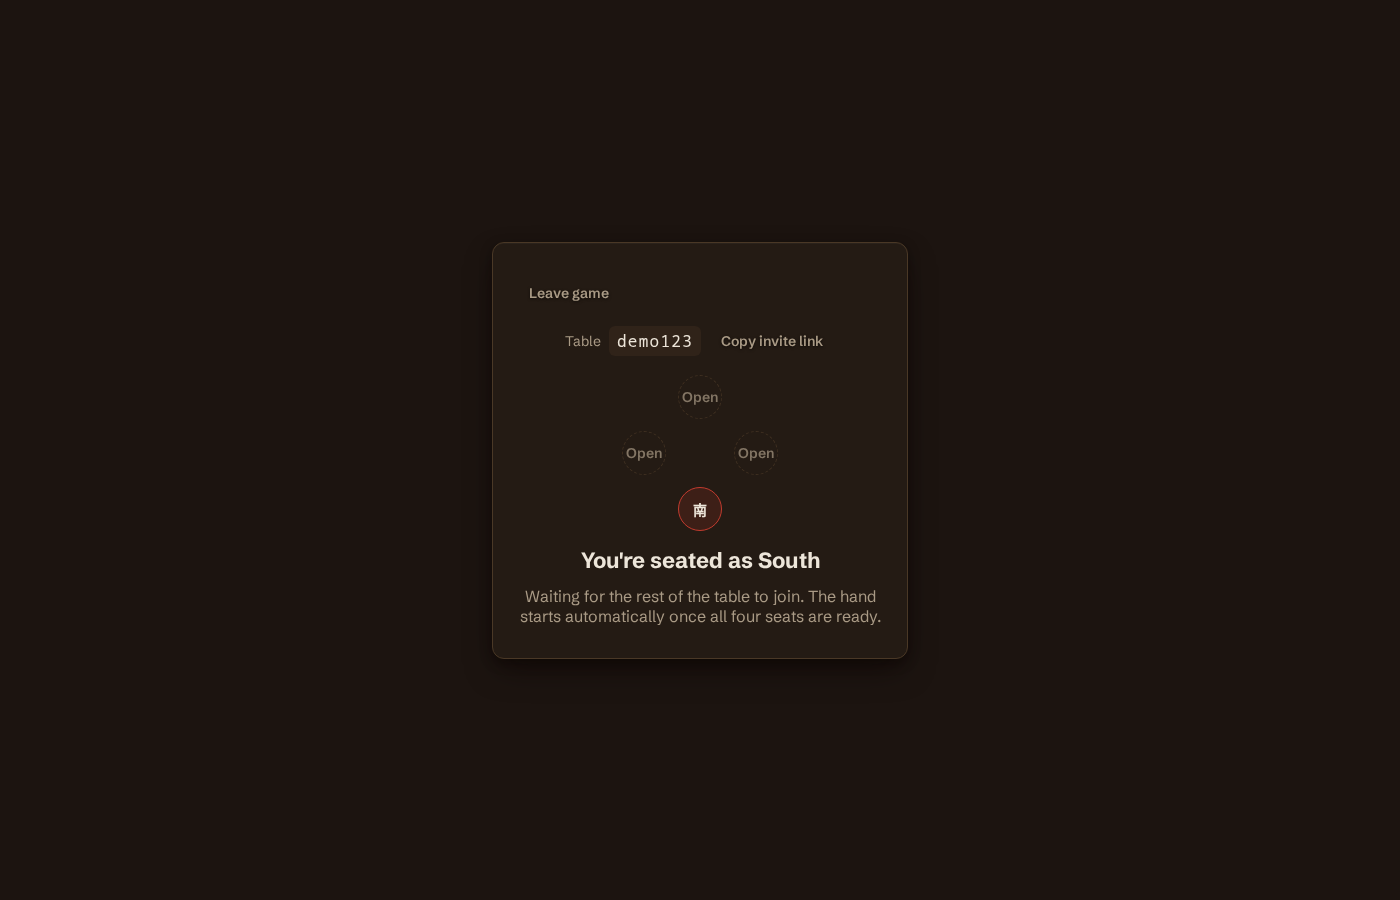
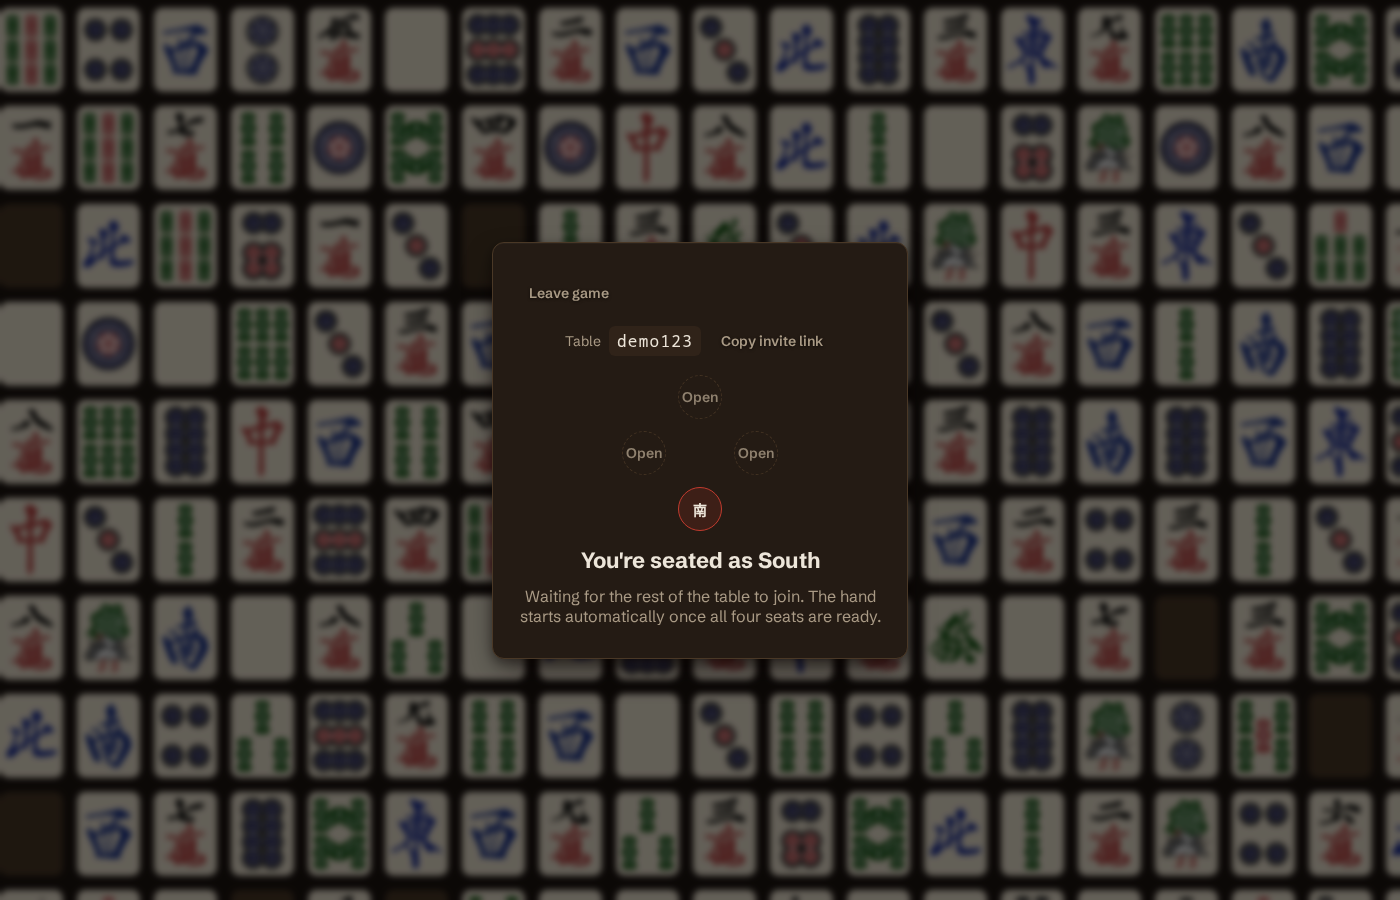
feat(web): share the lobby mural across tables and table pregame routes
Mounts TileMuralBackground once in the root layout instead of per-page,
so navigating between /, /tables, and /table/[id]'s pregame states
(connecting, seat picker, waiting-for-players) never tears down and
remounts the canvas -- that would restart its scroll position and
reshuffle its grid, reading as a jump rather than seamless navigation.

lib/ui/mural-visibility.svelte.ts holds one shared visibility flag the
always-mounted canvas reads; a page claims it via claimMuralVisible() on
mount and releases it on unmount. /table/[id] claims it conditionally
(pregame only) since the same route also renders the actual game table,
which never shows the mural, mock or live, spectator included.

Also removes the demo screenshot from README.md and the screenshot
pipeline's notable-pages list -- no longer a curated, distinct page
worth documenting there.

diff --git a/web/src/lib/ui/TileMuralBackground.svelte b/web/src/lib/ui/TileMuralBackground.svelte
@@ -52,6 +52,12 @@
 	// the art shrunk into a square, visibly less padding-accurate than the real TileFace.svelte.
 	const ART_ASPECT = 300 / 400;
 
+	// mounted once in the root layout for the whole app session (`lib/ui/mural-visibility.svelte.ts`)
+	// -- `visible` only toggles opacity, never unmounts the canvas, so route changes never restart
+	// the scroll position or reshuffle the grid. The draw loop keeps running while hidden (one
+	// cheap blit/frame) rather than pausing/resuming, so there's nothing to resync on show.
+	let { visible = true }: { visible?: boolean } = $props();
+
 	let canvasEl: HTMLCanvasElement | undefined = $state();
 
 	$effect(() => {
@@ -231,8 +237,9 @@
 	});
 </script>
 
-<canvas bind:this={canvasEl} class="mural" aria-hidden="true"></canvas>
-<div class="mural-scrim" aria-hidden="true"></div>
+<canvas bind:this={canvasEl} class="mural" class:mural--hidden={!visible} aria-hidden="true"
+></canvas>
+<div class="mural-scrim" class:mural--hidden={!visible} aria-hidden="true"></div>
 
 <style lang="scss">
 	.mural {
@@ -240,6 +247,7 @@
 		inset: 0;
 		z-index: var(--z-table);
 		pointer-events: none;
+		transition: opacity 220ms ease;
 	}
 
 	// sits in front of the canvas (later in DOM, same z-index) and blurs + darkens it, so the
@@ -253,5 +261,19 @@
 		backdrop-filter: blur(3px) brightness(0.55);
 		-webkit-backdrop-filter: blur(3px) brightness(0.55);
 		background: rgb(0 0 0 / 0.25);
+		transition: opacity 220ms ease;
+	}
+
+	// routes that don't want the mural (the live game table, profile, demo, ...) still have it
+	// mounted underneath -- see the module comment above for why -- just invisible.
+	.mural--hidden {
+		opacity: 0;
+	}
+
+	@media (prefers-reduced-motion: reduce) {
+		.mural,
+		.mural-scrim {
+			transition: none;
+		}
 	}
 </style>

diff --git a/web/src/lib/ui/mural-visibility.svelte.ts b/web/src/lib/ui/mural-visibility.svelte.ts
@@ -1,0 +1,24 @@
+// The mural background (`TileMuralBackground.svelte`) mounts once in the root layout and never
+// unmounts on client-side navigation -- otherwise its canvas would tear down and rebuild its
+// random grid, restarting the scroll animation, every time a route that wants it navigates to
+// another route that wants it (lobby -> tables -> table pregame). Pages that want it visible
+// toggle this shared flag on mount instead of rendering their own `<TileMuralBackground>`, so the
+// canvas itself is untouched -- only its opacity changes.
+class MuralVisibility {
+	visible = $state(false);
+}
+
+export const muralVisibility = new MuralVisibility();
+
+// call once from a page's `<script>` (component initialization, not inside a callback) to claim
+// mural visibility for as long as that page stays mounted, releasing it again on unmount. `wanted`
+// is a getter rather than a plain boolean so the claim can vary reactively while mounted --
+// `/table/[id]` wants the mural only during its pregame states, not once the game itself starts.
+export function claimMuralVisible(wanted: () => boolean = () => true): void {
+	$effect(() => {
+		muralVisibility.visible = wanted();
+		return () => {
+			muralVisibility.visible = false;
+		};
+	});
+}

diff --git a/web/src/routes/table/[id]/+page.svelte b/web/src/routes/table/[id]/+page.svelte
@@ -43,6 +43,7 @@
 	} from '$lib/ui/settings-storage';
 	import Toast from '$lib/ui/Toast.svelte';
 	import CloseButton from '$lib/ui/CloseButton.svelte';
+	import { claimMuralVisible } from '$lib/ui/mural-visibility.svelte';
 	import { createToast, removeToast, type ToastEntry } from '$lib/ui/toasts';
 	import {
 		initialSlotState,
@@ -263,6 +264,10 @@
 				handEverStarted) ||
 			spectating
 	);
+
+	// the mural shows on this route's pregame states (connecting, seat picker, waiting-for-players
+	// -- `tableReady` false) but never on the actual game table, mock or live, spectator included.
+	claimMuralVisible(() => !tableReady);
 
 	// unifies the real `liveStore`-driven pre-game states with the static `?pregame=` preview
 	// (above) so the template below branches on one pair of values regardless of which is
@@ -1396,6 +1401,8 @@
 	// centered-panel chrome as the lobby's own `.panel` (routes/+page.svelte), not a new
 	// visual language: panel-elevated, --color-surface, the same button/code-pill vocabulary.
 	.pretable-page {
+		position: relative;
+		z-index: var(--z-hud);
 		display: flex;
 		align-items: center;
 		justify-content: center;

diff --git a/web/src/routes/+page.svelte b/web/src/routes/+page.svelte
@@ -1,7 +1,9 @@
 <script lang="ts">
 	import { goto } from '$app/navigation';
 	import { generateTableCode } from '$lib/table/table-code';
-	import TileMuralBackground from '$lib/ui/TileMuralBackground.svelte';
+	import { claimMuralVisible } from '$lib/ui/mural-visibility.svelte';
+
+	claimMuralVisible();
 
 	// Straight to the table, no intermediate copy-code step: the table's own pre-game panel
 	// already has a "copy invite link" button (docs/03-frontend.md's "Pre-game states"), so
@@ -20,8 +22,6 @@
 		goto(`/table/${generateTableCode()}?practice=1`);
 	}
 </script>
-
-<TileMuralBackground />
 
 <div class="lobby">
 	<h1 class="sr-only">Mahjong</h1>

diff --git a/web/src/routes/tables/+page.svelte b/web/src/routes/tables/+page.svelte
@@ -2,6 +2,9 @@
 	import { goto } from '$app/navigation';
 	import { fetchTables, seatedCount, type TableSummary } from '$lib/net/lobby';
 	import { TABLE_CODE_LENGTH } from '$lib/table/table-code';
+	import { claimMuralVisible } from '$lib/ui/mural-visibility.svelte';
+
+	claimMuralVisible();
 
 	let joinCode = $state('');
 	const joinCodeValid = $derived(joinCode.trim().length > 0);
@@ -107,6 +110,8 @@
 	@use '$lib/styles/buttons';
 
 	.tables-page {
+		position: relative;
+		z-index: var(--z-hud);
 		display: flex;
 		flex-direction: column;
 		gap: var(--space-5);

diff --git a/web/src/routes/+layout.svelte b/web/src/routes/+layout.svelte
@@ -8,6 +8,8 @@
 	import '@fontsource/schibsted-grotesk/700.css';
 	import '$lib/styles/app.scss';
 	import favicon from '$lib/assets/favicon.svg';
+	import TileMuralBackground from '$lib/ui/TileMuralBackground.svelte';
+	import { muralVisibility } from '$lib/ui/mural-visibility.svelte';
 
 	let { children } = $props();
 </script>
@@ -15,5 +17,7 @@
 <svelte:head>
 	<link rel="icon" href={favicon} />
 </svelte:head>
+
+<TileMuralBackground visible={muralVisibility.visible} />
 
 {@render children()}

diff --git a/docs/03-frontend.md b/docs/03-frontend.md
@@ -52,26 +52,45 @@ Known costs:
 - DOM order still matters for keyboard tab order and stacking; keep it stable so Svelte's keyed
   `{#each}` (§4, §6) reconciles elements instead of tearing down and remounting them.
 
-**Exception: the lobby background mural.** `/`'s background (`lib/ui/TileMuralBackground.svelte`)
-is a real `<canvas>` — the one deliberate deviation from "no canvas" above. It's a continuously
-vertically-scrolling grid of randomized tile faces (the 34 playable faces plus the tile back,
-rendered with the same ivory `--color-tile` box `TileFace.svelte` uses, back included with no box
-per that component's own `.tile-face--back` treatment, and no two backs sharing an edge either —
-a cluster of visually-identical backs would otherwise read as a hole in the mural) sitting behind
-the lobby's three buttons, topped with a `backdrop-filter: blur() brightness()` scrim (a sibling
-element in front of the canvas, not a filter on the canvas itself) so the buttons stay legible
-regardless of what's scrolling underneath. Purely decorative: `aria-hidden`, `pointer-events: none`,
-no hit-testing/focus/tab-order/CJK-flow
-to lose since nothing on it is ever interactive. A DOM version would mean animating ~200 elements'
-`transform` every frame for a background that's never the size ~150 the "known costs" budget above
-was set for; canvas's per-frame cost here is one `drawImage` blit of a pre-rendered off-screen
-buffer, not per-tile draws every frame. Respects `prefers-reduced-motion` (renders the grid once,
-statically, no scroll). Adjacent cells never share a suit (honors and the back are exempt on both
-sides of that check). The grid is persistent, not rebuilt from scratch on resize — a resize only
-grows it to cover the new viewport, appending new cells without touching already-placed ones, so a
-spurious `resize` (a webfont swap reflowing the page, a scrollbar toggling) can't read as the whole
-mural "switching"; genuinely unchanged `window.innerWidth`/`innerHeight` short-circuits the handler
-before that even matters.
+**Exception: the background mural.** `lib/ui/TileMuralBackground.svelte` is a real `<canvas>` — the
+one deliberate deviation from "no canvas" above. It's a continuously vertically-scrolling grid of
+randomized tile faces (the 34 playable faces plus the tile back, rendered with the same ivory
+`--color-tile` box `TileFace.svelte` uses, back included with no box per that component's own
+`.tile-face--back` treatment, and no two backs sharing an edge either — a cluster of
+visually-identical backs would otherwise read as a hole in the mural), topped with a
+`backdrop-filter: blur() brightness()` scrim (a sibling element in front of the canvas, not a
+filter on the canvas itself) so foreground content stays legible regardless of what's scrolling
+underneath. Purely decorative: `aria-hidden`, `pointer-events: none`, no hit-testing/focus/tab-
+order/CJK-flow to lose since nothing on it is ever interactive. A DOM version would mean animating
+~200 elements' `transform` every frame for a background that's never the size ~150 the "known
+costs" budget above was set for; canvas's per-frame cost here is one `drawImage` blit of a
+pre-rendered off-screen buffer, not per-tile draws every frame. Respects `prefers-reduced-motion`
+(renders the grid once, statically, no scroll). Adjacent cells never share a suit (honors and the
+back are exempt on both sides of that check). The grid is persistent, not rebuilt from scratch on
+resize — a resize only grows it to cover the new viewport, appending new cells without touching
+already-placed ones, so a spurious `resize` (a webfont swap reflowing the page, a scrollbar
+toggling) can't read as the whole mural "switching"; genuinely unchanged
+`window.innerWidth`/`innerHeight` short-circuits the handler before that even matters.
+
+**Shared across routes, mounted once.** The mural appears on `/`, `/tables`, and `/table/[id]`'s
+pregame states (connecting, seat picker, waiting-for-players) — never on the actual game table,
+mock or live, spectator included. It's mounted exactly once, in the root `+layout.svelte`, for the
+whole app session; individual routes never render their own `<TileMuralBackground>` instance. A
+per-route instance would mean the canvas tearing down and remounting on every navigation between
+two mural routes (lobby → tables → table pregame), rebuilding its grid and restarting its scroll
+position each time — visibly non-"seamless" navigation, the same class of bug the persistent-grid
+fix above addresses for resize. Instead, `lib/ui/mural-visibility.svelte.ts` holds one shared
+`visible` flag the mounted-once canvas reads; a page that wants the mural calls
+`claimMuralVisible()` (or `claimMuralVisible(() => someCondition)` for a route like `/table/[id]`
+whose need varies while mounted) once from its own `<script>`, which claims the flag in an
+`$effect` and releases it (back to `false`) on unmount. `visible` only ever toggles the canvas's
+CSS opacity (`transition: opacity 220ms`, skipped under `prefers-reduced-motion`) — the draw loop
+itself keeps running underneath regardless, so there's no pause/resume state to resync when a page
+shows it again. Each mural-visible page's own content needs `position: relative` plus a real
+`z-index` (`var(--z-hud)`, matching the lobby's own `.lobby`) — a plain static-positioned element
+always paints *below* a `position: fixed` `z-index: 0` element in CSS stacking order regardless of
+DOM order or the z-index value itself, so without this the mural would sit on top of, not behind,
+that page's own content.
 
 ## 3. Scene layout and responsive layout
 

diff --git a/README.md b/README.md
@@ -26,7 +26,6 @@ wiring"). Regenerate with `pnpm --dir web run screenshots` after any visible fro
 | | |
 | --- | --- |
 | ![Lobby](docs/screenshots/lobby.png) Lobby (`/`) — create a table, join one, or play solo vs bots, over a scrolling tile-mural canvas background | ![Tables](docs/screenshots/tables.png) Tables (`/tables`) — join by code, or sit down / watch from the grid |
-| ![Demo](docs/screenshots/demo.png) Demo (`/demo`) — component demos | |
 | ![Table, your turn](docs/screenshots/table-your-turn.png) Table — your turn to discard | ![Table, claim window](docs/screenshots/table-claim-window.png) Table — claim window open |
 | ![Table, hand ended](docs/screenshots/table-hand-ended.png) Table — hand ended, faan breakdown | ![Table, hand ended in a draw](docs/screenshots/table-hand-ended-draw.png) Table — hand ended, exhaustive draw |
 | ![Table, game ended](docs/screenshots/table-game-ended.png) Table — game ended, score summary with standings | ![Table, connecting](docs/screenshots/table-pregame-connecting.png) Table — connecting |

diff --git a/web/AGENTS.md b/web/AGENTS.md
@@ -17,7 +17,7 @@ src/lib/styles/ SCSS tokens, tile geometry, layout mixins (see docs/03-frontend.
 ## Rules
 
 - Svelte/DOM owns everything: chrome and the table surface, including the tiles on it. No canvas
-  — except the lobby's decorative background mural (`docs/03-frontend.md §2`'s canvas exception).
+  — except the shared decorative background mural (`docs/03-frontend.md §2`'s canvas exception).
 - One-way flow: server event → reducer → store → components. Components never own game truth.
 - No optimistic local mutation of game truth. Send an intent, wait for the event — the one
   exception is a *pending* visual state on the tile you just discarded (`docs/03-frontend.md

diff --git a/.claude/skills/frontend-screenshots/SKILL.md b/.claude/skills/frontend-screenshots/SKILL.md
@@ -53,7 +53,7 @@ stable once they're referenced from `README.md`.
 
 ## Current notable pages
 
-`lobby`, `demo`, `table-your-turn`, `table-claim-window`, `table-hand-ended`,
+`lobby`, `tables`, `table-your-turn`, `table-claim-window`, `table-hand-ended`,
 `table-hand-ended-draw`, `table-game-ended`, `table-pregame-connecting`, `table-pregame-join`,
 `table-pregame-waiting` — see `README.md`'s
 Screenshots section for the embedded images.
